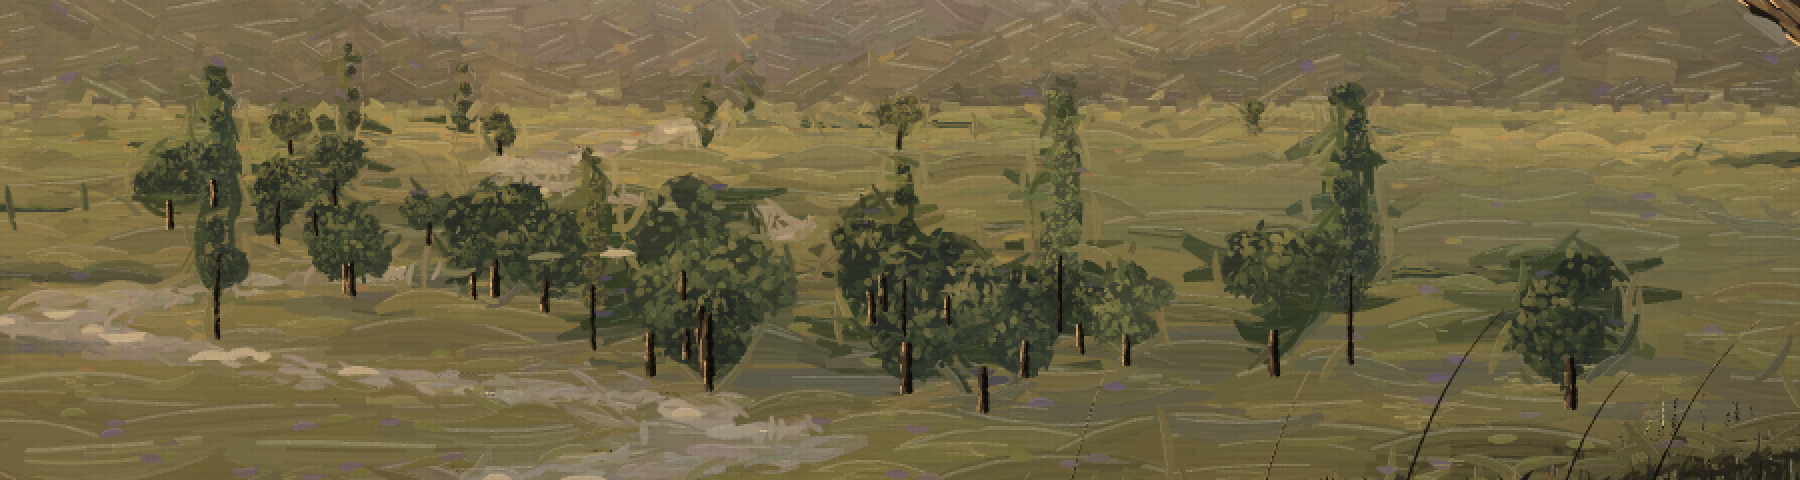
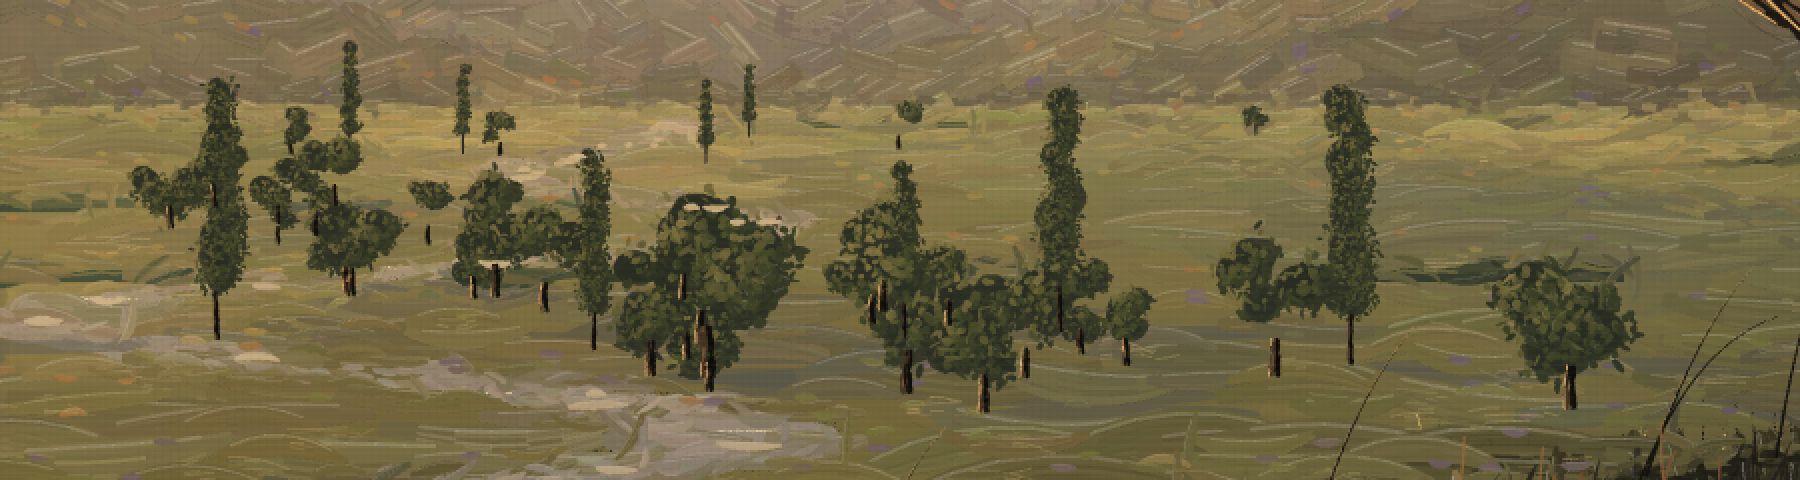
036-aerial-recession: no ghost halos round midground trees; fuller tall tops
Cause of the pale outlines: the oil field strokes are long sweeps
sampled from the underpainting, so any stroke starting on a watercolour
crown dragged the crown's green across the meadow as a translucent halo.

- oil underpainting keeps the trees' cast shadows but not their crowns;
  oilMidTree paints the crowns from the scene palette through s.seen
- far trees (1.4-5 REF wide) now painted too: one or two clumps and a
  trunk stroke for 2.5-9 wide (midTrunkMarks from 9)
- tall trees: closely spaced clumps narrowing to a rounded top, no gaps
- trunk model stops just inside the crown's lower edge, so it no longer
  shows through the foliage
- watercolour medium unchanged

Seed 4 rendered at 2480x1720, no page errors.

Claude-Session: https://claude.ai/code/session_014i1Png3Yc4yMk8wK1WReT7

diff --git a/projects/036-aerial-recession/sketch.js b/projects/036-aerial-recession/sketch.js
@@ -860,7 +860,11 @@ function buildTasks(s) {
     const chunk = s.trees.slice(i, i + 6);
     T.push(() => {
       chunk.forEach((tr) => paintTreeShadow(s, tr));
-      chunk.forEach((tr) => paintTree(s, tr));
+      // In oil the underpainting carries only the trees' cast shadows: the oil field
+      // strokes are long sweeps, and any that started on a watercolour crown dragged its
+      // green out across the meadow as a pale ghost round every tree. The crowns are
+      // painted on top by oilMidTree, from the scene's palette.
+      if (G.param('medium') === 0) chunk.forEach((tr) => paintTree(s, tr));
     });
   }
   // watercolour: the larger midground trees get the charcoal / hatch language in place,
@@ -2272,7 +2276,9 @@ function midTrunkMarks(s) {
     const w = tr.hW * sc * (tr.tall ? 0.5 : 1);
     const h = tr.hW * sc * (tr.tall ? 2.3 : 1.15);
     if (w < 9) continue;
-    const top = y - h * 0.18 - h * 0.5 + h * 0.32;
+    // the trunk ends just inside the crown's lower edge (it is painted after the crown,
+    // so any further and it would show through the foliage)
+    const top = y - h * 0.18 - h * (tr.tall ? 0.02 : 0.12);
     const tw = Math.max(1.2, w * 0.09);
     const P = [[x, y + 1, tw * 1.15], [x + random(-0.4, 0.4), (y + top) / 2, tw], [x + random(-0.6, 0.6), top, tw * 0.75]];
     const air = s.aerial(tr.z);
@@ -3566,7 +3572,7 @@ function oilGlazes(s) {
 //    middle distance, everything taken from the underpainting, which already carries the
 //    aerial perspective (less contrast, bluer, lighter with distance)
 //  - edge leaves only where the tree is big enough on screen to show them
-// Too-small trees (under 5 REF wide) keep the underpainting: distance removes detail.
+// Far trees (under 5 REF wide) get one or two clumps: distance removes detail.
 function oilMidTree(s, O, tr, out) {
   const C = s.C;
   const x = s.gx(tr.wx, tr.z);
@@ -3575,10 +3581,12 @@ function oilMidTree(s, O, tr, out) {
   const sc = s.F / tr.z;
   const w = tr.hW * sc * (tr.tall ? 0.5 : 1);
   const h = tr.hW * sc * (tr.tall ? 2.3 : 1.15);
-  if (w < 5) return;
+  if (w < 1.4) return;
   const air = s.aerial(tr.z);
   const cy = y - h * 0.18 - h * 0.5;
-  const base = O.under(x, cy);
+  // the crown's colour from the scene, as the watercolour pass would have mixed it (the
+  // underpainting no longer carries the crowns), through the same atmosphere
+  const base = s.seen(mixRGB(C.foliage, C.foliageLit, 0.12), tr.z, x, cy);
   const desat = (c, k) => {
     const l = 0.3 * c[0] + 0.59 * c[1] + 0.11 * c[2];
     return [c[0] + (l - c[0]) * k, c[1] + (l - c[1]) * k, c[2] + (l - c[2]) * k];
@@ -3599,12 +3607,18 @@ function oilMidTree(s, O, tr, out) {
   // sub-clumps: the basic shapes
   const clumps = [];
   if (tr.tall) {
-    const m = 3 + Math.round(h / 22);
+    // a column narrowing to a rounded (not needle-thin) top: overlapping clumps, closely
+    // spaced so no gap of meadow shows between them
+    const m = 4 + Math.round(h / 12);
     for (let i = 0; i < m; i++) {
       const t = (i + 0.5) / m; // 0 at the top
-      const r = w * (0.22 + 0.3 * t) * random(0.85, 1.1);
-      clumps.push({ x: x + random(-0.12, 0.12) * w, y: top + t * h * 0.95, r });
+      const r = w * (0.34 + 0.24 * Math.sqrt(t)) * random(0.9, 1.08);
+      clumps.push({ x: x + random(-0.1, 0.1) * w, y: top + r * 0.6 + t * (h * 0.95 - r * 0.6), r });
     }
+  } else if (w < 5) {
+    // far away: one or two clumps, no more detail than the distance allows
+    clumps.push({ x, y: cy, r: w * 0.5 });
+    if (w > 3) clumps.push({ x: x + random(-0.2, 0.2) * w, y: cy - h * 0.12, r: w * 0.38 });
   } else {
     const m = Math.min(7, 3 + Math.round(w / 12));
     for (let i = 0; i < m; i++) {
@@ -3613,6 +3627,14 @@ function oilMidTree(s, O, tr, out) {
     }
   }
   clumps.sort((p, q) => p.y - q.y); // top to bottom: lower clumps overlap the ones above
+  // the trunk under the crown, for trees too small for the trunk model (midTrunkMarks
+  // takes over from 9 REF wide): one dark tapered stroke, the crown painted over its top
+  if (w >= 2.5 && w < 9) {
+    const tw = Math.max(0.7, w * 0.1);
+    const tc = s.seen(mixRGB(C.silhouette, C.shadow, 0.2), tr.z, x, y);
+    const ty = cy + h * 0.15;
+    out.push(makeOilStroke(O, x, (y + 1 + ty) / 2, -Math.PI / 2, y + 1 - ty, tw, { color: tc, color2: tc, relief: 0, crisp: true, angular: true }));
+  }
   const sz0 = Math.max(1.1, Math.min(3.2, w * 0.075)); // mark size by distance
   const nPer = (r) => Math.min(120, Math.round((r * r) / (sz0 * sz0) * 1.6) + 6);
   const markAt = (cx, cyy, sz, col, crisp) => {
@@ -3626,7 +3648,7 @@ function oilMidTree(s, O, tr, out) {
   for (const c of clumps) {
     for (let i = 0; i < 3; i++) {
       const a = random(TWO_PI), d = random(0, 0.3) * c.r;
-      out.push(makeOilStroke(O, c.x + Math.cos(a) * d, c.y + Math.sin(a) * d * 0.9, random(-0.6, 0.6) + (tr.tall ? -Math.PI / 2 : 0), c.r * random(1.2, 1.7), c.r * random(0.8, 1.1), {
+      out.push(makeOilStroke(O, c.x + Math.cos(a) * d, c.y + Math.sin(a) * d * 0.9, random(-0.6, 0.6) + (tr.tall ? -Math.PI / 2 : 0), c.r * random(1.1, 1.5), c.r * random(0.9, 1.2), {
         color: shadeRGB(dark, random(0.9, 1)), color2: dark, relief: 0, soft: true,
       }));
     }

diff --git a/projects/036-aerial-recession/index.html b/projects/036-aerial-recession/index.html
@@ -22,6 +22,6 @@
 </head>
 <body>
   <a class="back" href="../../">← gallery</a>
-  <script src="sketch.js?v=12"></script>
+  <script src="sketch.js?v=13"></script>
 </body>
 </html>

diff --git a/projects/036-aerial-recession/README.md b/projects/036-aerial-recession/README.md
@@ -249,7 +249,14 @@ its zone fully, and light marks thicken toward the lit pole.
 | leaf type only at the edge | edge leaves only on trees wider than 14 REF units |
 | overlapping | sub-clumps painted top to bottom |
 | temperature; less saturated | cool shadow, warm light, desaturated 15 %; colours taken from the underpainting, which already carries the aerial perspective, and contrast scaled by (1 − air) |
-| distant objects show less | trees narrower than 5 REF units keep the underpainting |
+| distant objects show less | trees narrower than 5 REF units get one or two clumps and a single trunk stroke |
+
+In oil the underpainting carries only the trees' cast shadows, not their crowns. The oil
+field strokes are long sweeps; any that started on a watercolour crown dragged its green
+out across the meadow as a pale ghost round every tree. Crown colours now come from the
+scene palette through the same atmosphere (`s.seen`). Tall trees are a column of closely
+spaced clumps to a rounded top, and the trunk model stops just inside the crown's lower
+edge so it never shows through the foliage.
 
 ![midground trees, 2× detail (seed 4)](midground-detail.png)
 
